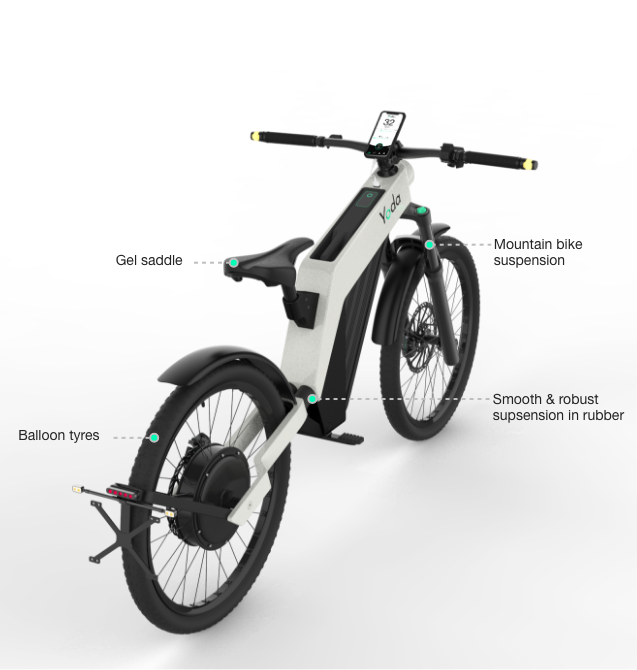
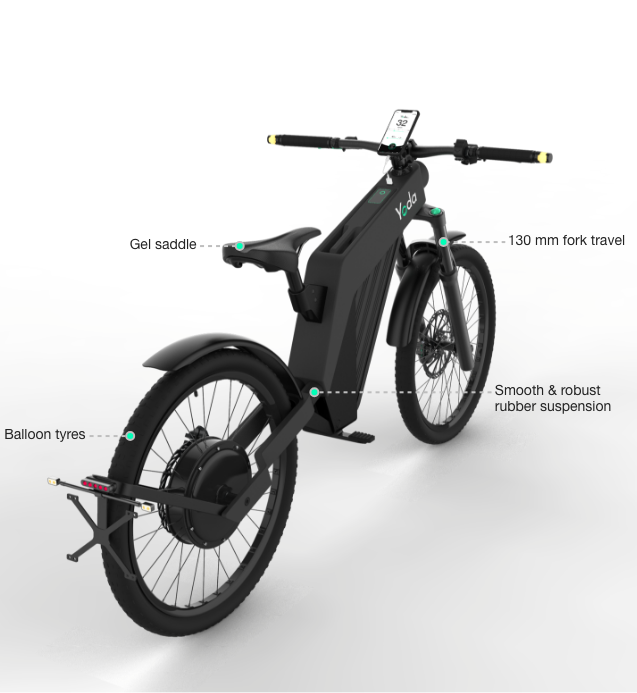
change yoda's picture of page buy mobile to the black version + add the book page also

Changed region(s): [[0.0, 0.1493, 0.9843, 1.0], [0.179, 0.3284, 0.3281, 0.4179]]

diff --git a/app/assets/stylesheets/pages/_buy-mobile.scss b/app/assets/stylesheets/pages/_buy-mobile.scss
@@ -7,7 +7,7 @@
         margin-top: 80px;
         .text-content{
           h1{
-            font-size: 44px;
+            font-size: 48px;
             font-weight: 500;
             color: $black;
             span{
@@ -16,7 +16,7 @@
           }
           p{
             font-weight: 400;
-            font-size: 13px;
+            font-size: 15px;
             color: $font-text-black;
             margin-top: 10px;
             margin-bottom: 26px;
@@ -28,7 +28,7 @@
             font-weight: 300;
             color: $black;
             text-decoration: none;
-            font-size: 13px;
+            font-size: 15px;
           }
         }
       }
@@ -42,11 +42,11 @@
     }
     .page-mobile-content-2{
       h2{
-        font-size: 44px;
+        font-size: 40px;
         font-weight: 500;
         color: $black;
-        margin-left: 15px;
-        margin-top: 50px;
+        margin-top: 35px;
+        text-align: center;
         span{
           color: $green;
         }
@@ -58,7 +58,7 @@
         font-weight: 300;
         color: $blue;
         text-decoration: none;
-        font-size: 13px;
+        font-size: 15px;
         margin-left: 15px;
       }
       .image{
@@ -81,7 +81,7 @@
           }
           p{
             font-weight: 400;
-            font-size: 13px;
+            font-size: 15px;
             color: $font-text-black;
             margin-left: 15px;
             span{
@@ -97,7 +97,7 @@
         margin-top: 70px;
         .text-content{
           h2{
-            font-size: 44px;
+            font-size: 48px;
             font-weight: 500;
             color: $black;
             span{
@@ -106,7 +106,7 @@
           }
           p{
             font-weight: 400;
-            font-size: 13px;
+            font-size: 15px;
             color: $font-text-black;
             margin-top: 10px;
             margin-bottom: 26px;
@@ -118,7 +118,7 @@
             font-weight: 300;
             color: $blue;
             text-decoration: none;
-            font-size: 13px;
+            font-size: 15px;
           }
         }
       }
@@ -147,7 +147,7 @@
           }
           p{
             font-weight: 400;
-            font-size: 13px;
+            font-size: 14px;
             color: $font-text-black;
             margin-top: 10px;
             margin-bottom: 26px;
@@ -159,7 +159,48 @@
             font-weight: 300;
             color: $black;
             text-decoration: none;
-            font-size: 13px;
+            font-size: 15px;
+          }
+        }
+      }
+      .image{
+        display: flex;
+        align-items: flex-end;
+        img{
+          width: 100%;
+        }
+      }
+    }
+    .page-mobile-content-5{
+      .text-container{
+        margin-left: 15px;
+        margin-top: 50px;
+        margin-bottom: 20px;
+        .text-content{
+          text-align: left;
+          h2{
+            font-size: 40px;
+            font-weight: 500;
+            color: $black;
+            span{
+              color: $green;
+            }
+          }
+          p{
+            font-weight: 400;
+            font-size: 15px;
+            color: $font-text-black;
+            margin-top: 10px;
+            margin-bottom: 26px;
+          }
+          a{
+            padding: 8px 20px;
+            border: 1px solid $black;
+            border-radius: 25px;
+            font-weight: 300;
+            color: $black;
+            text-decoration: none;
+            font-size: 15px;
           }
         }
       }
@@ -214,14 +255,16 @@
               }
               p{
                 font-weight: 400;
-                font-size: 13px;
+                font-size: 15px;
                 color: $light-light-grey;
                 margin-top: 10px;
                 margin-bottom: 26px;
               }
             }
             .image{
-              text-align: center;
+              display: flex;
+              align-items: flex-end;
+              justify-content: center;
               img{
                 width: 95%;
               }
@@ -244,7 +287,7 @@
               }
               p{
                 font-weight: 400;
-                font-size: 13px;
+                font-size: 15px;
                 color: $light-light-grey;
                 margin-top: 10px;
                 margin-bottom: 26px;
@@ -279,6 +322,83 @@
         #Arrows i:hover{
           background-color: rgba(28,29,33, .75);
           color: #EEEFF7;
+        }
+      }
+    }
+    .page-mobile-content-6{
+      background-color: $light-grey;
+      .featurs-container{
+        display: flex;
+        flex-direction: column;
+        align-items: center;
+        justify-content: center;
+        padding: 50px 0 40px;
+        .row{
+          display: flex;
+          align-items: flex-start;
+          justify-content: center;
+          .feature{
+            width: 107px;
+            text-align: center;
+            img{
+              width: 80px;
+            }
+            p{
+              margin-top: 5px;
+              font-size: 15px;
+              font-weight: 300;
+              text-align: center;
+            }
+            p.title{
+              font-weight: 400;
+            }
+          }
+        }
+        .row:first-child{
+          margin-bottom: 50px;
+        }
+      }
+      .text-book{
+        text-align: center;
+        margin: 30px 0 40px;
+        h2{
+          font-size: 50px;
+          font-weight: 500;
+          color: $black;
+          span{
+            color: $green;
+          }
+        }
+        h4{
+          font-size: 33px;
+          font-weight: 300;
+          margin: 40px 0 25px;
+        }
+        p{
+          font-weight: 400;
+          font-size: 15px;
+          color: $font-text-black;
+          margin-top: 10px;
+          margin-bottom: 26px;
+        }
+        a{
+          padding: 10px 25px;
+          border: 1px solid $blue;
+          border-radius: 25px;
+          font-weight: 300;
+          background-color: $blue;
+          color: white;
+          text-decoration: none;
+          font-size: 15px;
+        }
+      }
+      .text-price{
+        text-align: center;
+        padding-bottom: 15px;
+        p{
+          font-size: 13px;
+          font-weight: 300;
+          margin-bottom: 3px;
         }
       }
     }

diff --git a/app/assets/stylesheets/pages/index.scss b/app/assets/stylesheets/pages/index.scss
@@ -5,6 +5,4 @@
 @import "buy";
 @import "buy-mobile";
 @import "infos-page";
-@import "cart";
-@import "cart-mobile";
 @import "contact";
